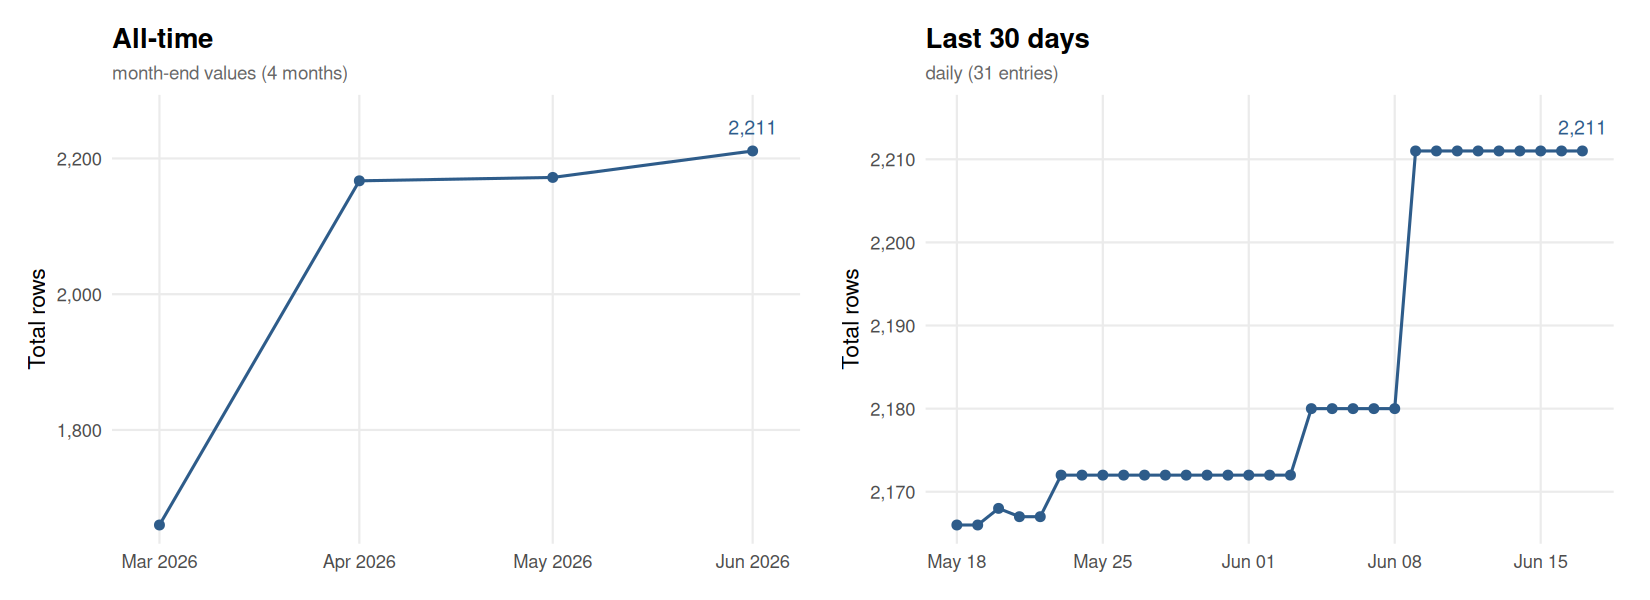
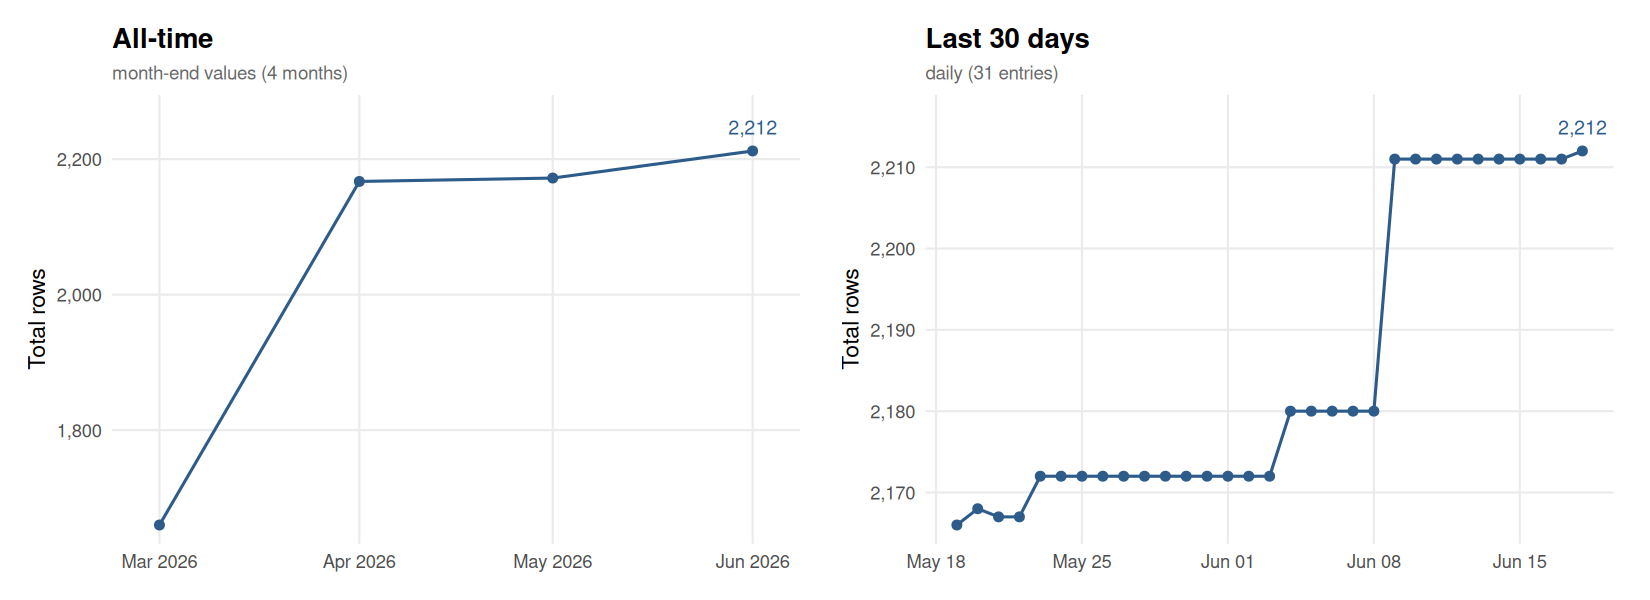
Update flora.csv [automated]

diff --git a/README.md b/README.md
@@ -438,14 +438,15 @@ For API issues:
 This chart is automatically updated after each pipeline run, showing the size of `output/flora.csv` over time.
 
 <!-- FLORA_UPDATE_LOG_START -->
-> **Latest (2026-06-17):** Total = 2,211 | Replications = 2,202 | Reproductions = 9
+> **Latest (2026-06-18):** Total = 2,212 | Replications = 2,203 | Reproductions = 9
 
 ![FLoRA dataset size over time](output/flora_history.png)
 
-<details><summary>Full history (90 entries)</summary>
+<details><summary>Full history (91 entries)</summary>
 
 | Date | Total | Replications | Reproductions |
 |------|------:|-------------:|--------------:|
+| 2026-06-18 | 2212 | 2203 | 9 |
 | 2026-06-17 | 2211 | 2202 | 9 |
 | 2026-06-16 | 2211 | 2202 | 9 |
 | 2026-06-15 | 2211 | 2202 | 9 |
